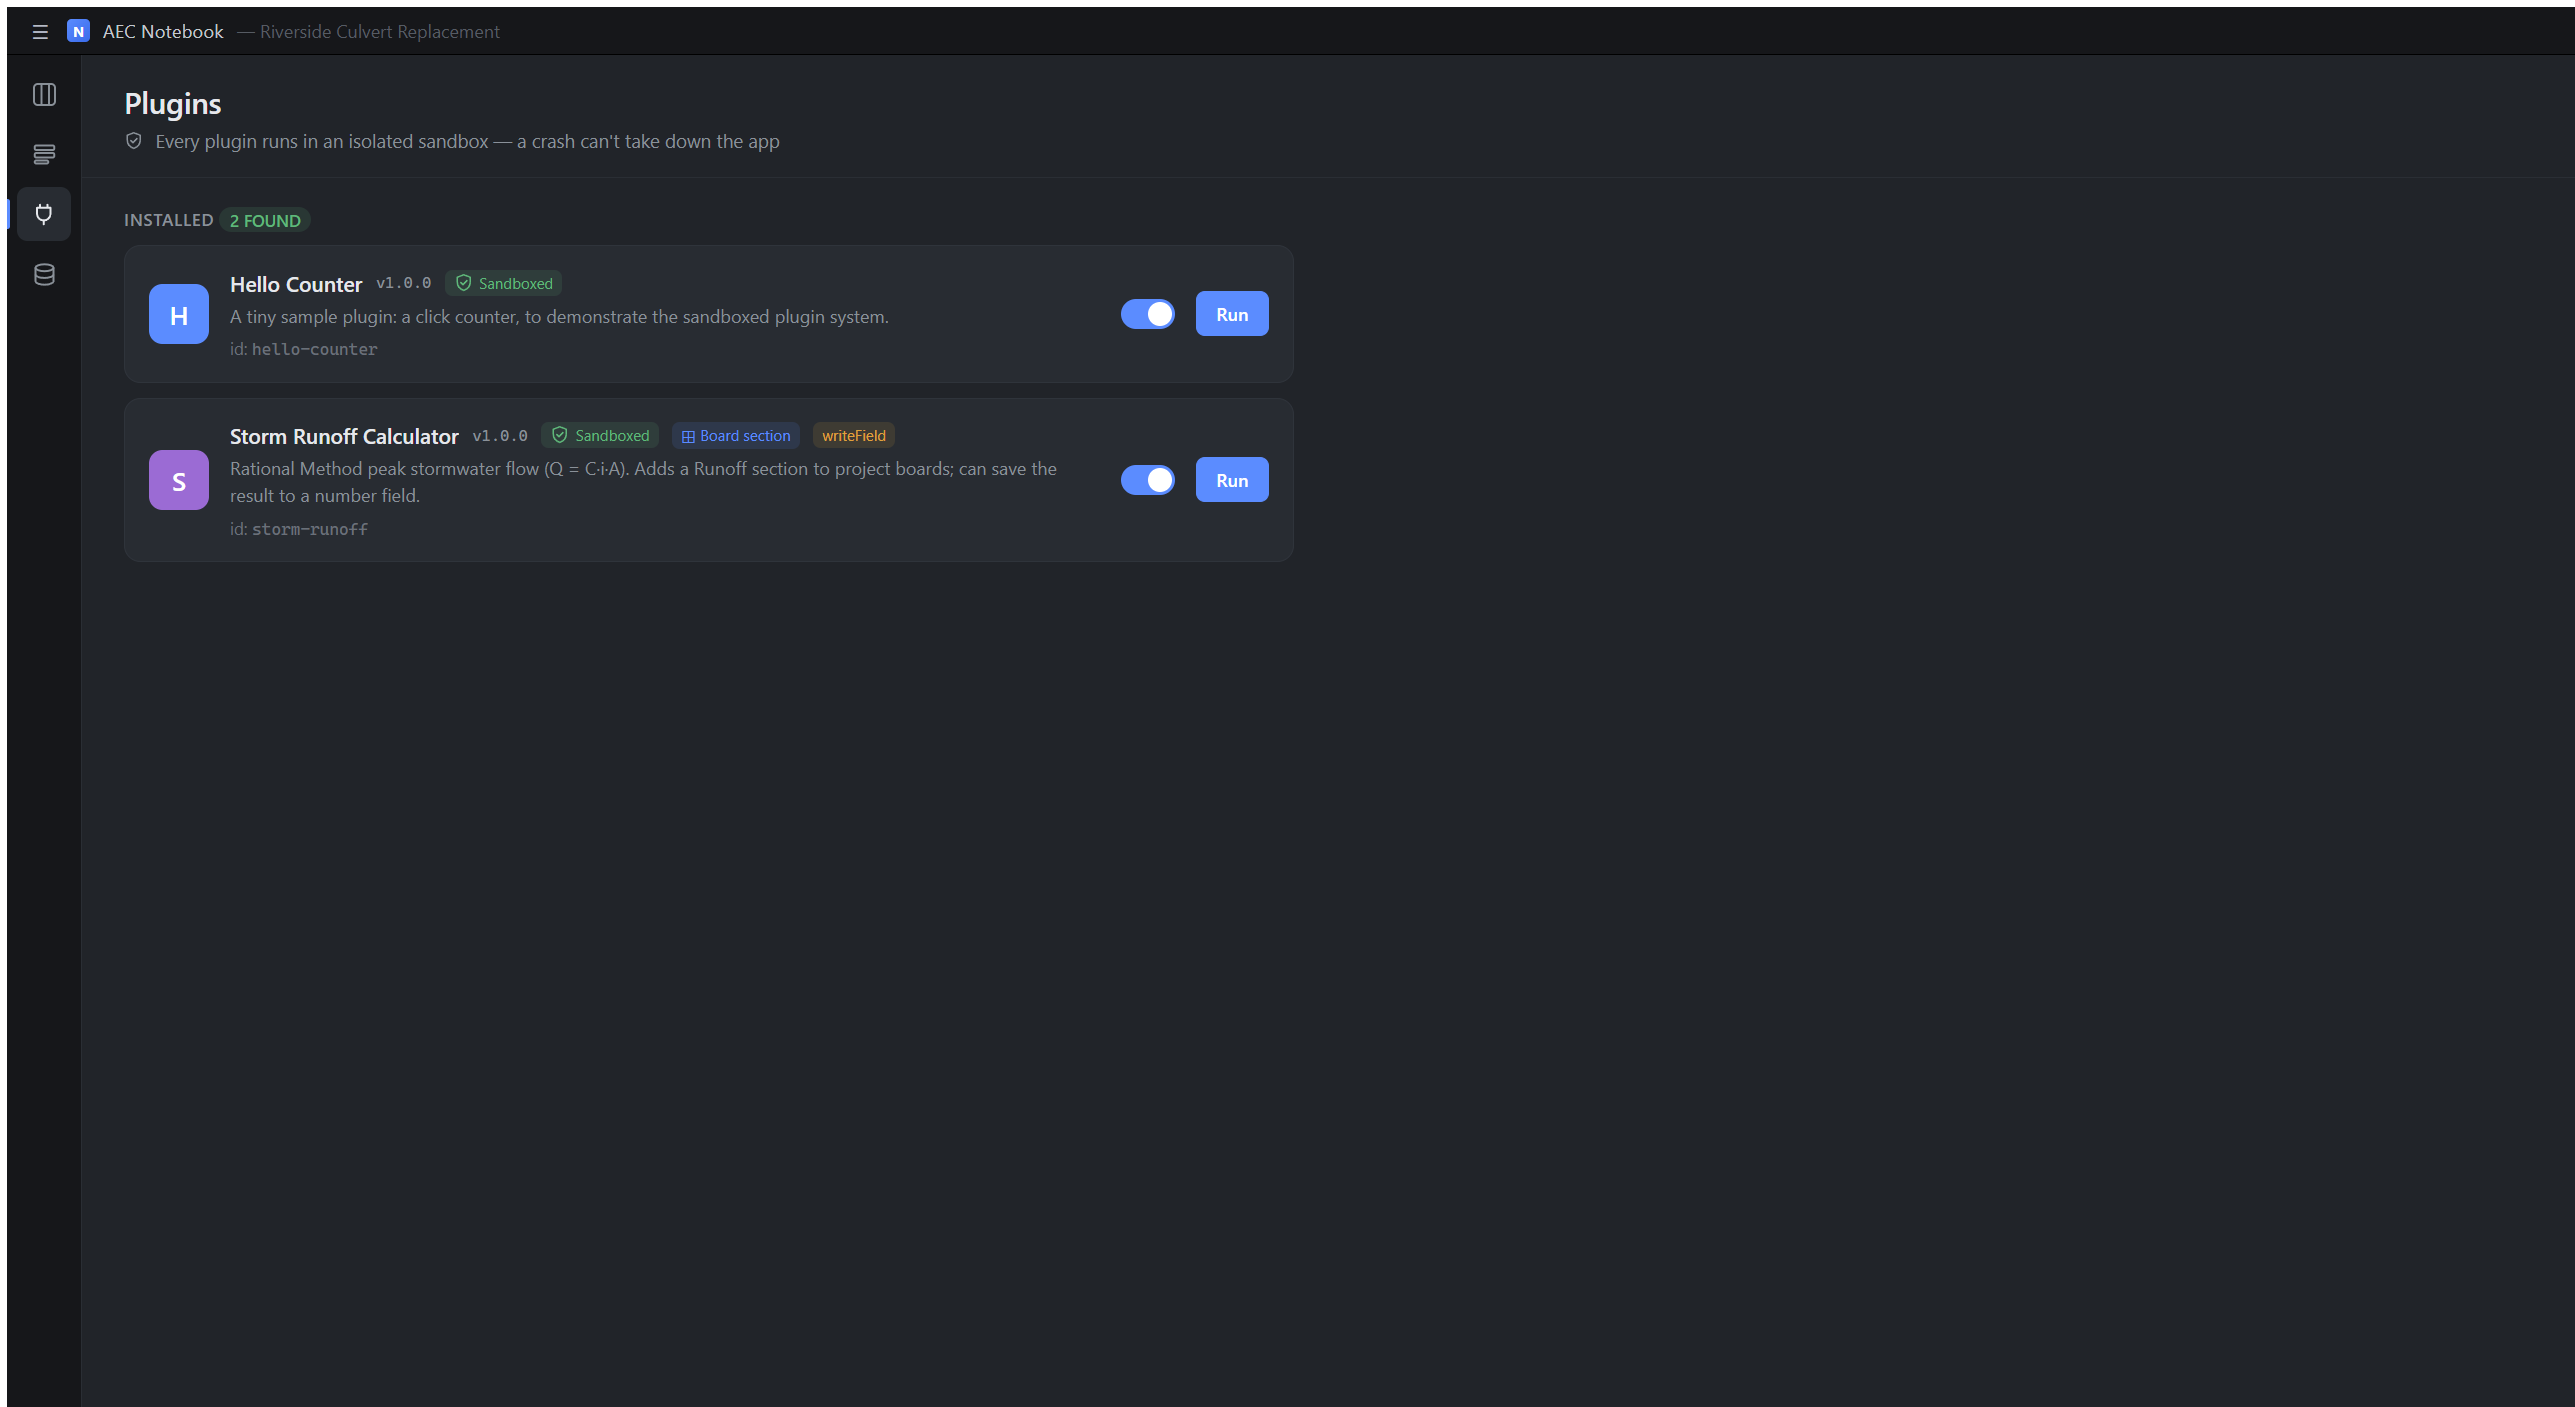
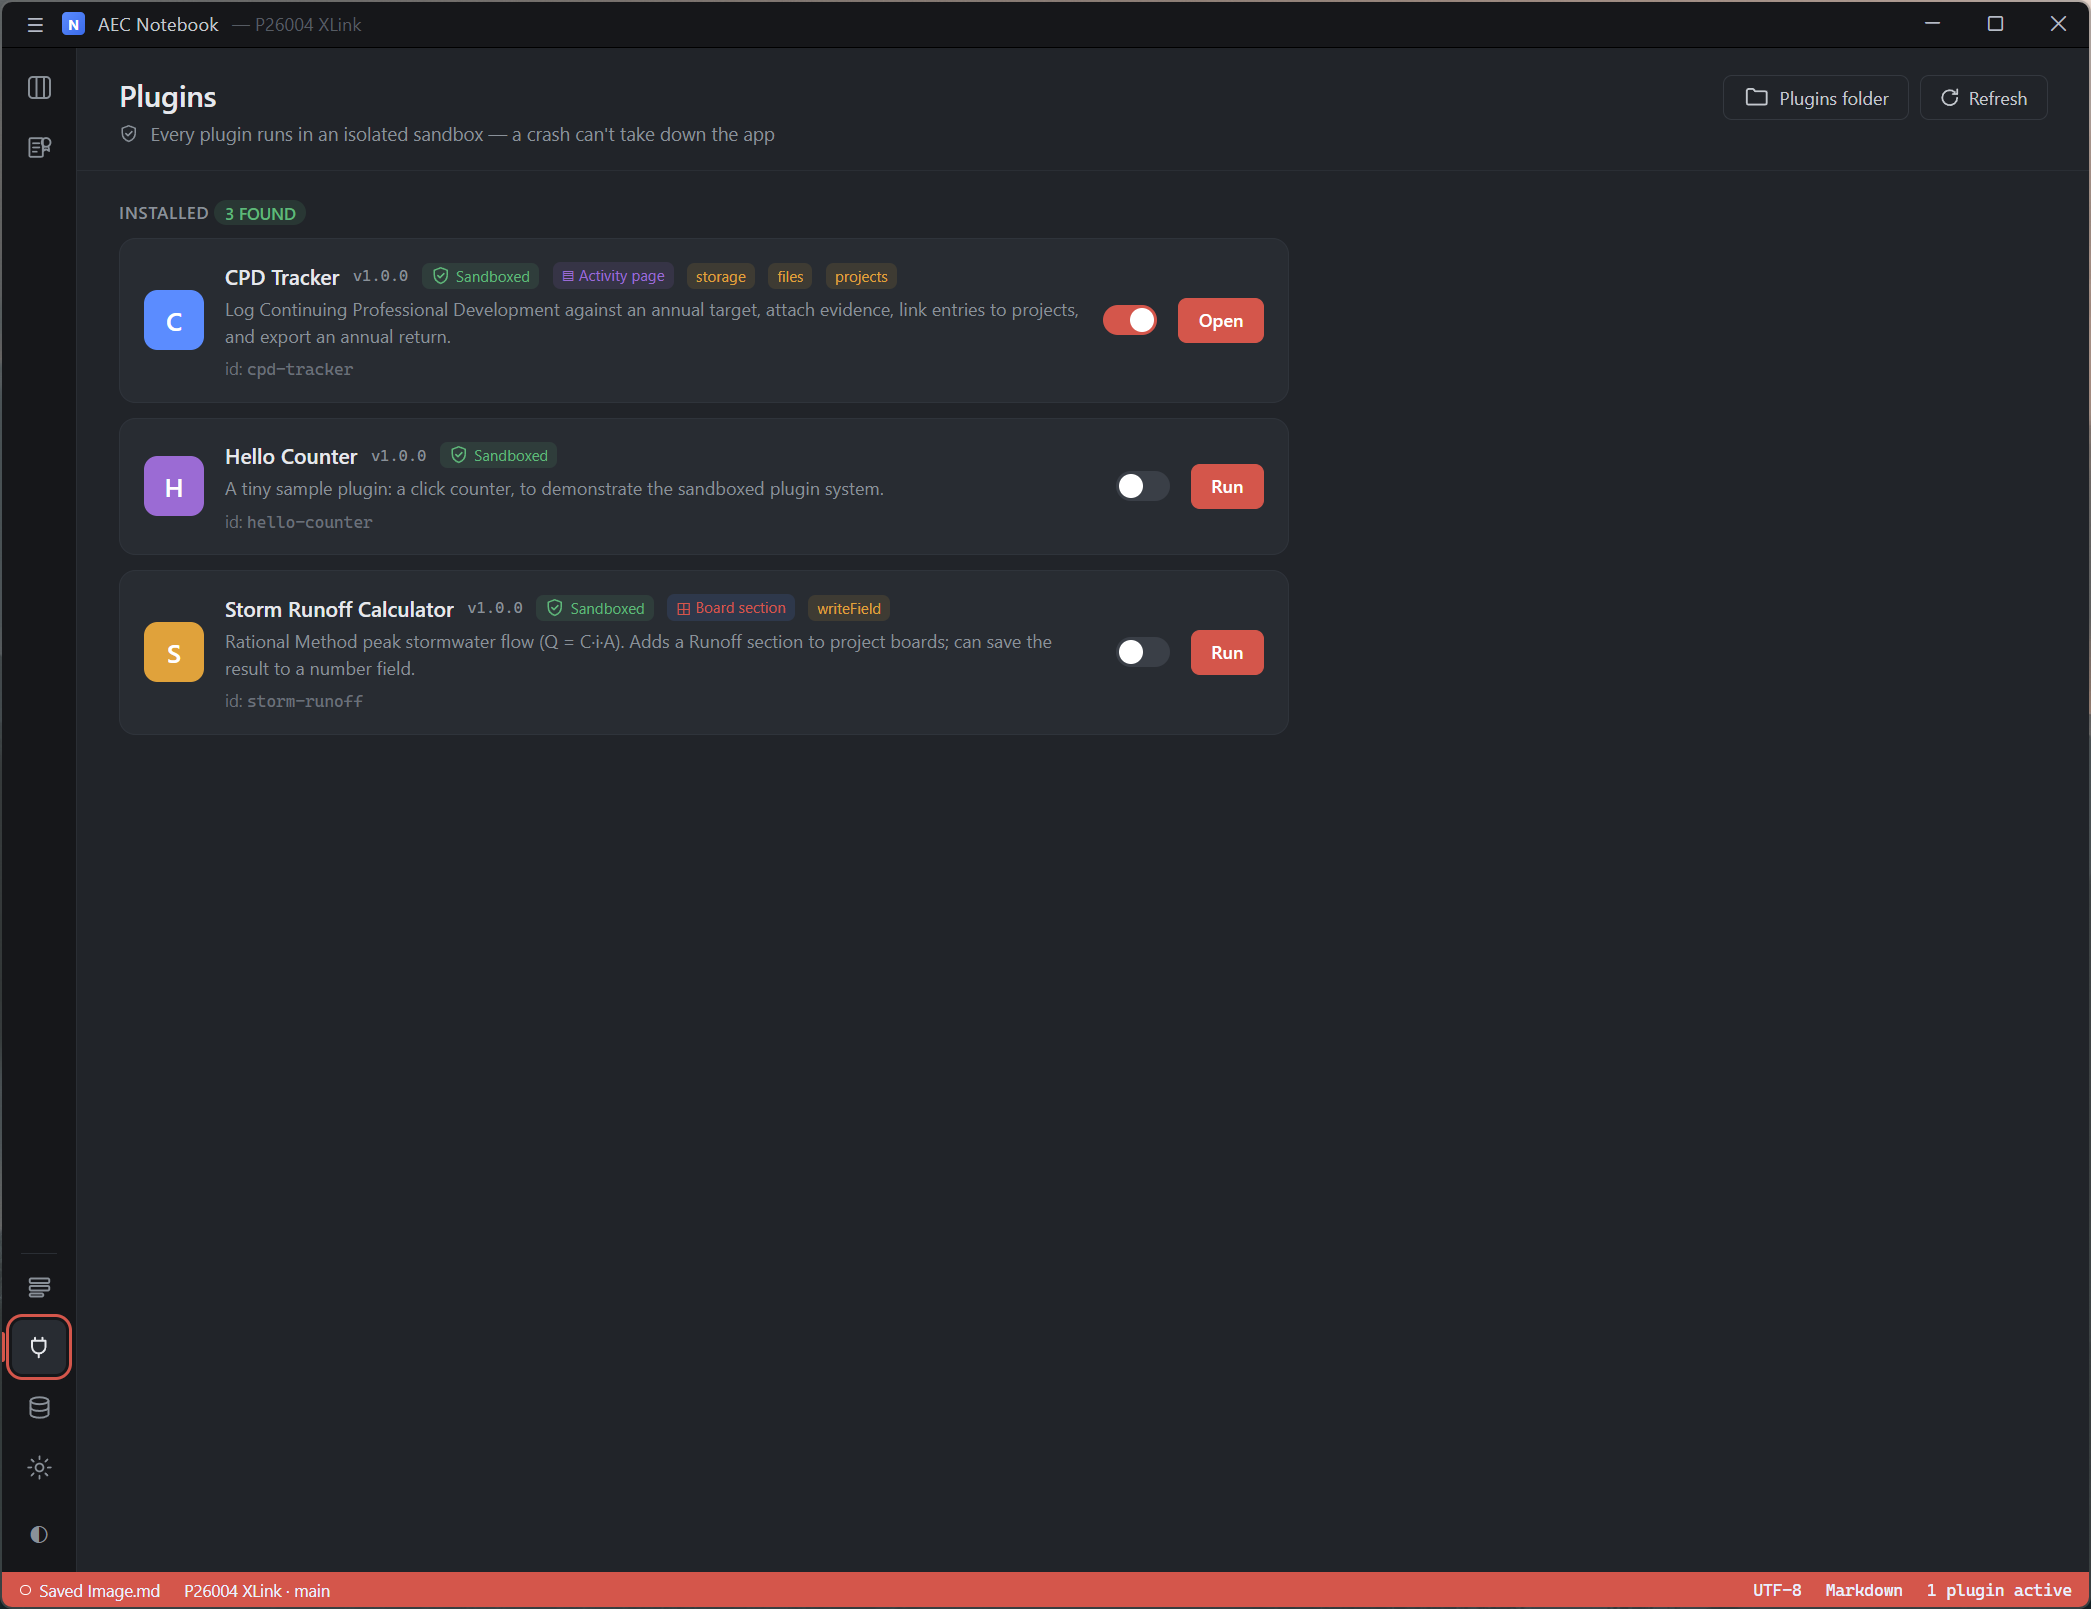
Update README.md and CONTRIBUTING.md, add project metadata and images

diff --git a/README.md b/README.md
@@ -31,9 +31,14 @@ project data is a `project.json` you can read and diff, notes are ordinary `.md`
 
 ## What it does
 
-**Describe your projects however you like.** Every library folder gets its own field definitions —
-text, number, date, select, multi-select, file, checkbox — grouped into sections you can drag to
-reorder. Export a schema as JSON and reuse it on the next drive.
+**Point it at the project folders you already have.** Add a *library folder* — a folder that
+contains your projects — and every project inside gets its own board automatically. Your files
+never move and nothing is duplicated: the board and its notes sit right beside the real project
+files, on the same drive everyone already uses.
+
+**Attach whatever properties matter to each folder.** Every library folder gets its own field
+definitions — text, number, date, select, multi-select, file, checkbox — grouped into sections you
+can drag to reorder. Export a schema as JSON and reuse it on the next drive.
 
 ![The schema editor with a Flood Zone dropdown, its allowed options, a highlight rule, and a live preview](docs/images/schema-editor.png)
 
@@ -59,9 +64,16 @@ doesn't quietly grow forever.
 ![The Attachments section on a project board, listing files with their sizes and which notes link to them](docs/images/attachments.png)
 -->
 
-**Extend it without forking it.** Plugins are a folder with a manifest and one JavaScript file.
-They run in an isolated sandbox with no network and no filesystem access, and can only touch
-project fields you've granted them. A broken plugin can't take the app down.
+**Track your CPD without a spreadsheet.** A built-in **CPD Tracker** logs Continuing Professional
+Development against an annual hours target, with a place to attach evidence (certificates,
+attendance records) against each entry, and a one-click summary you can copy out for an annual
+return.
+
+**Add more tools whenever you need them.** Plugins are how the app grows — a fee estimator, a
+runoff calculator, a CPD log, whatever your team needs next. Drop a plugin's folder in and it shows
+up in the app. Each one runs in an isolated sandbox with no network and no filesystem access, and
+can only touch the project fields you've granted it, so a broken or untrusted plugin can't take the
+app down or reach your files.
 
 ![The plugins page listing two sandboxed plugins with permission badges](docs/images/plugins.png)
 
@@ -91,37 +103,7 @@ Installers are **not code-signed**, so Windows SmartScreen and macOS Gatekeeper 
 run. On Windows choose *More info → Run anyway*; on macOS right-click the app and choose *Open*.
 See [SECURITY.md](SECURITY.md).
 
-Prefer to build it yourself? See below.
-
-## Build from source
-
-Requires Node.js 20+.
-
-```bash
-npm install
-```
-
-```bash
-npm start
-```
-
-Run the tests:
-
-```bash
-npm test
-```
-
-Build installers for the current platform (output in `dist/`, which is not tracked in git —
-binaries are published through Releases instead). The tests run first, so a failing build is never
-packaged:
-
-```bash
-npm run build
-```
-
-There are `build:win`, `build:mac` and `build:linux` for a specific platform, and `build:dir` for
-an unpacked folder you can run without installing — useful when you only want to check something
-loads.
+Prefer to build it yourself? See [CONTRIBUTING.md](CONTRIBUTING.md).
 
 ## Getting started
 
@@ -173,8 +155,8 @@ with a `manifest.json` and a single JavaScript file. No build step.
 A plugin either adds a **section to every project board** and writes results straight back into
 project fields, or takes its **own ribbon button and page** for a tool that owns its own data.
 Two are bundled: **Storm Runoff Calculator** (board section) and **CPD Tracker** (activity page —
-logs Continuing Professional Development against an annual target, with evidence files and an
-annual-return export).
+logs Continuing Professional Development against an annual target, with evidence files attached to
+each entry and a summary you can copy out for an annual return).
 
 **To install one:** open the **Plugins** page in the left ribbon, click **Plugins folder**, drop the
 plugin's folder in, and click **Refresh**. That button opens the right directory for your install
@@ -197,43 +179,11 @@ plugins you trust.
 plugin, the manifest format, the `PluginAPI` reference, styling, sandbox limits, and
 troubleshooting. `plugins/storm-runoff/` is a complete worked example.
 
-## Architecture
-
-```
-src/main/       Electron main process — everything that touches the filesystem
-  main.js         app lifecycle, window, navigation guards, pnplugin:// scheme
-  menu.js         the native application menu
-  pathGuard.js    the allowlist every project-scoped IPC call is checked against
-  writeTracker.js holds app quit open until pending writes land
-  windowState.js  remembers window bounds, and refuses to restore off-screen ones
-  preload.js      the entire renderer-facing API surface
-  ipc/            one module per area (notes, project, config, search, plugins, …)
-  services/       storage, scanner, search, searchIndex, watcher, history,
-                  templates, userStyles, plugins, pluginHost
-src/shared/     Pure logic usable from either process — validation, theme tokens,
-                diff, retention policy, template substitution
-renderer/       UI — no Node access; everything goes through window.api
-  styles/         design tokens + per-area stylesheets
-  core/           store, toast, modal, popover, undo, fsWatch, icons, events
-  workspace/      tab groups, splitting, the right sidebar
-  editor/         note editor, markdown rendering, attachments
-    cm/             CodeMirror wiring
-    markdown/       callouts, embeds, footnotes, maths, diagrams, highlighting
-  views/          project board, schema editor, table, storage, settings,
-                  quick switcher, version history
-  panels/         sidebar panes: backlinks, outline, outgoing links, tags, reference
-  plugins/        host side of the sandboxed plugin bridge
-plugins/        Bundled sample plugins
-test/           node:test unit tests — no framework
-```
-
-Security posture: `contextIsolation` on, `nodeIntegration` off, a channel-allowlisted preload, a
-strict CSP on the app document, external links forced out to the system browser, and plugins
-isolated behind a separate protocol scheme with their own CSP.
-
 ## Contributing
 
-Issues and pull requests are welcome. Please run `npm test` before opening a PR.
+Issues and pull requests are welcome — see [CONTRIBUTING.md](CONTRIBUTING.md) for how the code is
+organised and how to get set up. Security details and the app's threat model live in
+[SECURITY.md](SECURITY.md).
 
 ## License
 

diff --git a/CONTRIBUTING.md b/CONTRIBUTING.md
@@ -20,6 +20,19 @@ npm test
 Tests are plain `node:test` — no test framework to learn. Anything pure (validation, markdown
 preprocessing, path handling, search) should have a test; UI wiring generally doesn't.
 
+## Building installers
+
+```bash
+npm run build
+```
+
+Output goes to `dist/` (not tracked in git — binaries are published through GitHub Releases
+instead). `npm test` runs first, so a failing build is never packaged.
+
+`build:win`, `build:mac` and `build:linux` build for one specific platform. `build:dir` produces an
+unpacked folder you can run without installing — useful when you only want to check something
+loads.
+
 ## How the code is organised
 
 - `src/main/` — the Electron main process. Everything that touches the filesystem lives here.
